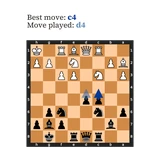
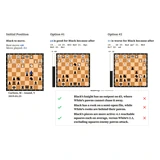
Restore Emerging thumbnail and show the full chess figure

diff --git a/_pages/about.html b/_pages/about.html
@@ -78,7 +78,7 @@ function toggleBibtex(trigger) {
 
 <div class="publications">
   <div class="pub-entry" id="binprop">
-    {% include publication-thumbnail.html paper="binprop" alt="Initial chess position with the best move and played move labeled" %}
+    {% include publication-thumbnail.html paper="binprop" version=4 alt="Figure 1 compares the initial chess position and two continuations alongside the explanations for each move" %}
     <div class="pub-content">
       <strong class="pub-title">Explaining Chess and Go in Natural Language</strong>
       <span class="pub-authors"><strong class="pub-author-self">Ori Press</strong>, Alexander Golubev</span>
@@ -277,7 +277,7 @@ function toggleBibtex(trigger) {
     </div>
   </div>
   <div class="pub-entry">
-    {% include publication-thumbnail.html paper="emerging" alt="Grid of faces combining source images with glasses from reference images" %}
+    {% include publication-thumbnail.html paper="emerging" version=4 alt="Grid of faces combining source images with glasses from reference images" %}
     <div class="pub-content">
       <strong class="pub-title">Emerging Disentanglement in Auto-Encoder Based Unsupervised Image Content Transfer</strong>
       <span class="pub-authors"><strong class="pub-author-self">Ori Press</strong>, Tomer Galanti, Sagie Benaim, Lior Wolf</span>

diff --git a/_includes/publication-thumbnail.html b/_includes/publication-thumbnail.html
@@ -1,7 +1,8 @@
 {%- assign asset = "/assets/optimized/thumb-" | append: include.paper | relative_url -%}
+{%- assign version = include.version | default: 3 -%}
 <img class="pub-thumb"
-     src="{{ asset }}-320.webp?v=3"
-     srcset="{{ asset }}-160.webp?v=3 160w, {{ asset }}-320.webp?v=3 320w, {{ asset }}-480.webp?v=3 480w"
+     src="{{ asset }}-320.webp?v={{ version }}"
+     srcset="{{ asset }}-160.webp?v={{ version }} 160w, {{ asset }}-320.webp?v={{ version }} 320w, {{ asset }}-480.webp?v={{ version }} 480w"
      sizes="(max-width: 768px) 238px, 150px"
      width="480" height="480" loading="lazy" decoding="async"
      alt="{{ include.alt | escape }}">

diff --git a/scripts/optimize-homepage-images.py b/scripts/optimize-homepage-images.py
@@ -69,15 +69,20 @@ def encode(image: Image.Image, format_name: str, quality: Optional[int]) -> byte
 
 def derivatives():
     for name in THUMBNAILS:
-        source = PUBLICATION_ARTWORK / name
+        use_original_crop = name == "thumb-emerging.png"
+        source = (ROOT / "assets" if use_original_crop else PUBLICATION_ARTWORK) / name
+        inset_ratio = 0.04 if name == "thumb-binprop.png" else THUMBNAIL_INSET
         with Image.open(source) as original:
             image = original.convert("RGBA")
             for size in THUMBNAIL_SIZES:
-                inset = round(size * THUMBNAIL_INSET)
-                artwork = ImageOps.contain(image, (size - 2 * inset,) * 2, Image.Resampling.LANCZOS)
-                square = Image.new("RGB", (size, size), "white")
-                position = ((size - artwork.width) // 2, (size - artwork.height) // 2)
-                square.paste(artwork, position, artwork)
+                if use_original_crop:
+                    square = ImageOps.fit(image, (size, size), Image.Resampling.LANCZOS)
+                else:
+                    inset = round(size * inset_ratio)
+                    artwork = ImageOps.contain(image, (size - 2 * inset,) * 2, Image.Resampling.LANCZOS)
+                    square = Image.new("RGB", (size, size), "white")
+                    position = ((size - artwork.width) // 2, (size - artwork.height) // 2)
+                    square.paste(artwork, position, artwork)
                 target = ROOT / "assets/optimized" / f"{source.stem}-{size}.webp"
                 yield source, target, square, "WEBP", THUMBNAIL_QUALITY
     source = ROOT / "images/neckar.jpeg"
